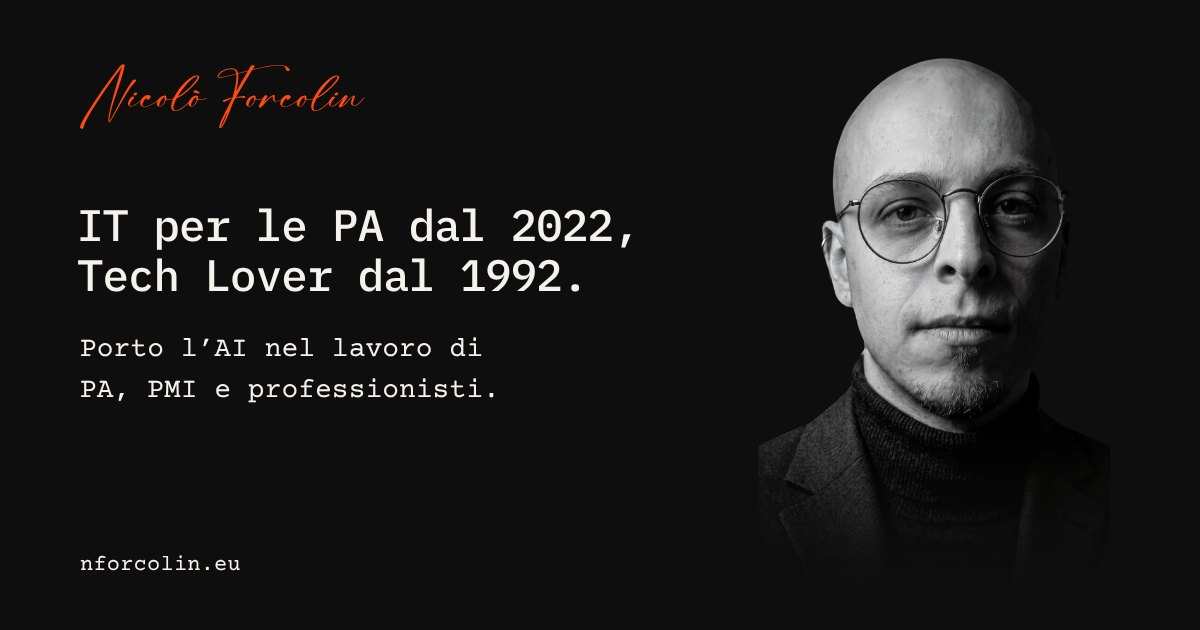
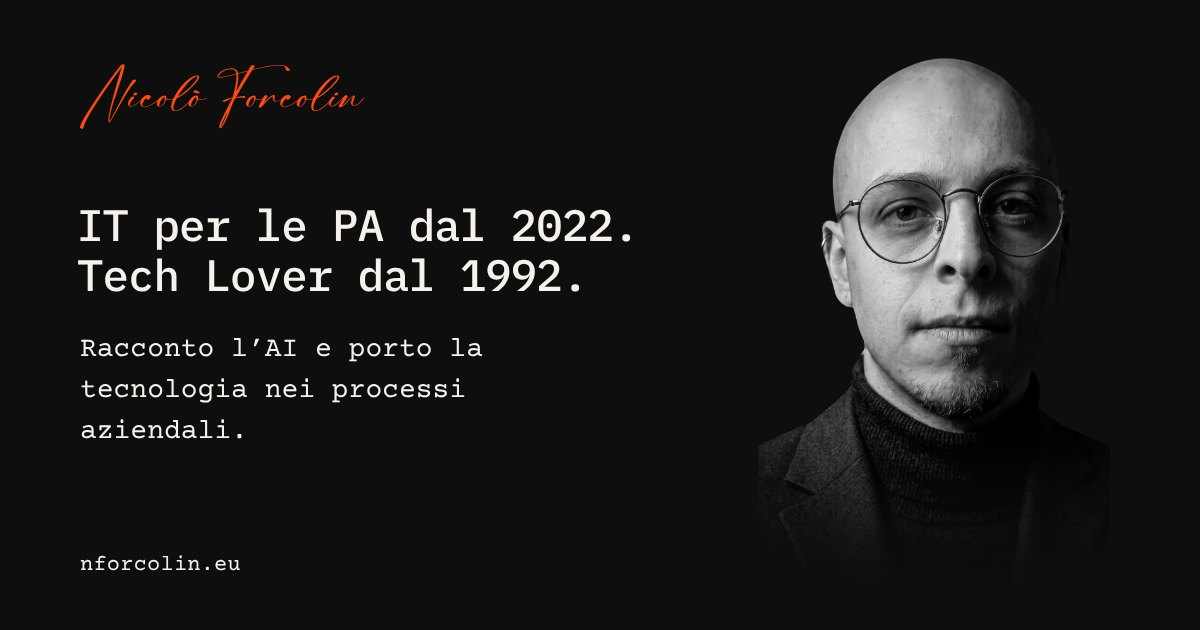
Hero: nuovo testo su cosa faccio e con chi lavoro
Claude-Session: https://claude.ai/code/session_013V1PHrfFfWZxJKR6k5JqCP

diff --git a/script.js b/script.js
@@ -10,7 +10,7 @@
       home_local_res_v:"su circa 100 domande di prova.",
       home_career_more:"Più di 35 colleghi affiancati su loro richiesta. Membro del team del CEO di DABO per “Sprint Forward in Golden Boots” in Cina.",
       home_all_projects:"Tutti i progetti",
-      home_audience_desc:"Racconto l’AI, integro tecnologie e miglioro processi aziendali. Sempre con un obiettivo: renderli utili nel lavoro di ogni giorno.",
+      home_audience_desc:"Lavoro con PA, enti parastatali, PMI e professionisti. Sviluppo soluzioni che funzionano anche fuori dalle presentazioni PowerPoint.",
       home_career_title:"Il mio percorso",
       home_career_link:"Leggi il percorso",
       local_how_privacy:"Le richieste vengono elaborate in locale, senza inviare dati all’esterno.",
@@ -139,7 +139,8 @@
       enablement_title:"Condividere l’esperienza sul campo",
       enablement_desc:"Ho partecipato come relatore a incontri interni sull’AI. Dal 2025 sono anche Social Ambassador di InfoCamere: promuovo la cultura digitale e condivido l’esperienza maturata nel lavoro.",
       hero_intro:[
-        [{t:"IT per le PA dal "},{t:"2022",b:true},{t:", Tech Lover dal "},{t:"1992",b:true},{t:"."}]
+        [{t:"IT per le PA dal "},{t:"2022",b:true},{t:". Tech Lover dal "},{t:"1992",b:true},{t:"."}],
+        [{t:"Racconto l’AI e porto la tecnologia nei processi aziendali. Quelli veri, fatti di persone e problemi quotidiani."}]
       ],
       stats_label:"In numeri",
       stat1_v:"35+",
@@ -161,7 +162,7 @@
       faq3_a:"Da un problema che vi fa perdere tempo ogni settimana. Il RAG aziendale è nato così: oggi un problema si gestisce in meno di 15 minuti invece di circa un’ora, e l’analisi dopo un problema richiede meno di 2 ore invece di una giornata.",
       skip_to_content:"Vai al contenuto",
       page_title:"Nicolò Forcolin | AI nel lavoro quotidiano",
-      page_description:"IT per le PA dal 2022, Tech Lover dal 1992. Racconto l’AI, integro tecnologie e miglioro processi aziendali. Sempre con un obiettivo: renderli utili nel lavoro di ogni giorno.",
+      page_description:"IT per le PA dal 2022. Tech Lover dal 1992. Racconto l’AI e porto la tecnologia nei processi aziendali. Quelli veri, fatti di persone e problemi quotidiani.",
       rag_step1_kicker:"Fonti iniziali",
       rag_step1_title:"Documentazione e storico delle criticità",
       rag_step1_desc:"Due raccolte di conoscenza consultate separatamente.",
@@ -343,7 +344,7 @@
       home_local_res_v:"out of about 100 test questions.",
       home_career_more:"More than 35 colleagues supported at their request. Member of the DABO CEO’s team for “Sprint Forward in Golden Boots” in China.",
       home_all_projects:"All projects",
-      home_audience_desc:"I talk about AI, integrate technologies and improve business processes. Always with one goal: making them useful in everyday work.",
+      home_audience_desc:"I work with public administrations, public-sector bodies, SMEs and professionals. I build solutions that work outside PowerPoint presentations too.",
       home_career_title:"My experience",
       home_career_link:"Read about my experience",
       local_how_privacy:"Requests are processed locally, without sending data outside.",
@@ -472,7 +473,8 @@
       enablement_title:"Sharing practical experience",
       enablement_desc:"I have spoken at internal AI sessions. Since 2025, I have also been an InfoCamere Social Ambassador, promoting digital culture and sharing experience from my work.",
       hero_intro:[
-        [{t:"Public-sector IT since "},{t:"2022",b:true},{t:", tech lover since "},{t:"1992",b:true},{t:"."}]
+        [{t:"Public-sector IT since "},{t:"2022",b:true},{t:". Tech lover since "},{t:"1992",b:true},{t:"."}],
+        [{t:"I talk about AI and bring technology into business processes. The real ones, made of people and everyday problems."}]
       ],
       stats_label:"In numbers",
       stat1_v:"35+",
@@ -494,7 +496,7 @@
       faq3_a:"With a problem that costs you time every week. The enterprise RAG started that way: an issue now takes under 15 minutes instead of about an hour, and the analysis after an issue takes under 2 hours instead of a full day.",
       skip_to_content:"Skip to content",
       page_title:"Nicolò Forcolin | AI in everyday work",
-      page_description:"Public-sector IT since 2022, tech lover since 1992. I talk about AI, integrate technologies and improve business processes. Always with one goal: making them useful in everyday work.",
+      page_description:"Public-sector IT since 2022. Tech lover since 1992. I talk about AI and bring technology into business processes. The real ones, made of people and everyday problems.",
       rag_step1_kicker:"Initial sources",
       rag_step1_title:"Documentation and incident history",
       rag_step1_desc:"Two separate knowledge collections.",

diff --git a/index.html b/index.html
@@ -8,7 +8,7 @@
 <meta name="supported-color-schemes" content="dark">
 <meta name="darkreader-lock">
 <title>Nicolò Forcolin | AI nel lavoro quotidiano</title>
-<meta name="description" content="IT per le PA dal 2022, Tech Lover dal 1992. Racconto l’AI, integro tecnologie e miglioro processi aziendali. Sempre con un obiettivo: renderli utili nel lavoro di ogni giorno.">
+<meta name="description" content="IT per le PA dal 2022. Tech Lover dal 1992. Racconto l’AI e porto la tecnologia nei processi aziendali. Quelli veri, fatti di persone e problemi quotidiani.">
 <link rel="canonical" href="https://nforcolin.eu/">
 
 <link rel="icon" href="favicon.svg?v=8" type="image/svg+xml">
@@ -22,13 +22,13 @@
 <meta property="og:site_name" content="Nicolò Forcolin">
 <meta property="og:locale" content="it_IT">
 <meta property="og:title" content="Nicolò Forcolin | AI nel lavoro quotidiano">
-<meta property="og:description" content="IT per le PA dal 2022, Tech Lover dal 1992. Racconto l’AI, integro tecnologie e miglioro processi aziendali. Sempre con un obiettivo: renderli utili nel lavoro di ogni giorno.">
+<meta property="og:description" content="IT per le PA dal 2022. Tech Lover dal 1992. Racconto l’AI e porto la tecnologia nei processi aziendali. Quelli veri, fatti di persone e problemi quotidiani.">
 <meta property="og:image" content="https://nforcolin.eu/og-home.jpg">
 <meta property="og:image:width" content="1200">
 <meta property="og:image:height" content="630">
 <meta name="twitter:card" content="summary_large_image">
 <meta name="twitter:title" content="Nicolò Forcolin | AI nel lavoro quotidiano">
-<meta name="twitter:description" content="IT per le PA dal 2022, Tech Lover dal 1992. Racconto l’AI, integro tecnologie e miglioro processi aziendali. Sempre con un obiettivo: renderli utili nel lavoro di ogni giorno.">
+<meta name="twitter:description" content="IT per le PA dal 2022. Tech Lover dal 1992. Racconto l’AI e porto la tecnologia nei processi aziendali. Quelli veri, fatti di persone e problemi quotidiani.">
 <meta name="twitter:image" content="https://nforcolin.eu/og-home.jpg">
 
 <script type="application/ld+json">
@@ -81,8 +81,8 @@
   <div class="hero-inner wrap">
     <div class="hero-overlay">
       <h1 class="visually-hidden" id="hero-name">Nicolò Forcolin</h1>
-      <div class="hero-intro" id="heroIntro"><p>IT per le PA dal <strong>2022</strong>, Tech Lover dal <strong>1992</strong>.</p></div>
-      <p class="hero-audience" data-i18n="home_audience_desc">Racconto l’AI, integro tecnologie e miglioro processi aziendali. Sempre con un obiettivo: renderli utili nel lavoro di ogni giorno.</p>
+      <div class="hero-intro" id="heroIntro"><p>IT per le PA dal <strong>2022</strong>. Tech Lover dal <strong>1992</strong>.</p><p>Racconto l’AI e porto la tecnologia nei processi aziendali. Quelli veri, fatti di persone e problemi quotidiani.</p></div>
+      <p class="hero-audience" data-i18n="home_audience_desc">Lavoro con PA, enti parastatali, PMI e professionisti. Sviluppo soluzioni che funzionano anche fuori dalle presentazioni PowerPoint.</p>
 
     </div>
     <div class="hero-photo-frame">

diff --git a/i18n-zh.js b/i18n-zh.js
@@ -9,7 +9,7 @@ window.NF_I18N.zh = {
   home_local_res_v:"来自约 100 个测试问题。",
   home_career_more:"应同事要求，已辅导 35 位以上同事。作为 DABO CEO 团队成员，参与在中国举办的“Sprint Forward in Golden Boots”。",
   home_all_projects:"所有项目",
-  home_audience_desc:"我讲解 AI，整合技术，改进业务流程。始终只有一个目标：让它们在日常工作中真正有用。",
+  home_audience_desc:"我与公共行政部门、公共机构、中小企业和专业人士合作。我开发的方案，离开 PowerPoint 演示也一样管用。",
   home_career_title:"我的经历",
   home_career_link:"了解我的经历",
   local_how_privacy: "请求在本地处理，不会向外部发送数据。",
@@ -138,7 +138,8 @@ window.NF_I18N.zh = {
   enablement_title: "分享实践经验",
   enablement_desc: "我曾在内部的 AI 分享会上发言。自 2025 年起，我还担任 InfoCamere 社交大使，推广数字文化，分享工作中的经验。",
   hero_intro: [
-    [{ t: "自 " }, { t: "2022", b: true }, { t: " 年起从事公共行政领域的 IT，自 " }, { t: "1992", b: true }, { t: " 年起热爱科技。" }]
+    [{ t: "自 " }, { t: "2022", b: true }, { t: " 年起从事公共行政领域的 IT，自 " }, { t: "1992", b: true }, { t: " 年起热爱科技。" }],
+    [{ t: "我讲解 AI，把技术带进业务流程。真实的流程，由人和日常问题组成。" }]
   ],
   stats_label: "数据一览",
   stat1_v: "35+",
@@ -160,7 +161,7 @@ window.NF_I18N.zh = {
   faq3_a:"从每周都让你们浪费时间的问题开始。企业 RAG 就是这样诞生的：现在处理一个问题不到 15 分钟，过去约需一小时；问题之后的分析不到 2 小时，过去需要一整天。",
   skip_to_content: "跳到正文",
   page_title: "Nicolò Forcolin | 日常工作中的 AI",
-  page_description: "自 2022 年起从事公共行政领域的 IT，自 1992 年起热爱科技。我讲解 AI，整合技术，改进业务流程。始终只有一个目标：让它们在日常工作中真正有用。",
+  page_description: "自 2022 年起从事公共行政领域的 IT，自 1992 年起热爱科技。我讲解 AI，把技术带进业务流程。真实的流程，由人和日常问题组成。",
   rag_step1_kicker: "最初的来源",
   rag_step1_title: "文档与事件历史",
   rag_step1_desc: "两个相互独立的知识库。",

diff --git a/home-editorial.css b/home-editorial.css
@@ -83,7 +83,7 @@ body[data-page="home"] .colophon{padding-bottom:24px}
  .hero-intro p:first-child{font-size:1.5rem;line-height:1.15;margin:0 0 14px}
  :lang(zh-Hans) .hero-intro p:first-child{font-size:1.25rem}
  .hero-intro p:last-child{margin-bottom:0}
- .hero-photo-frame{grid-row:1;align-self:stretch;width:100%;height:clamp(200px,calc(100svh - 360px),560px);min-height:0;max-height:none;margin:0 0 16px;overflow:hidden;position:relative;order:0}
+ .hero-photo-frame{grid-row:1;align-self:stretch;width:100%;height:clamp(180px,calc(100svh - 480px),560px);min-height:0;max-height:none;margin:0 0 16px;overflow:hidden;position:relative;order:0}
  .hero-portrait{position:absolute;top:0;left:0;width:100%;max-width:none;height:100%;max-height:none;object-fit:contain;object-position:center bottom;mask-image:none;-webkit-mask-image:none}
  .home-stats-list{grid-template-columns:1fr;gap:0;padding:10px 0}
  .home-stats-list li{display:flex;align-items:baseline;gap:16px;padding:10px 0}
@@ -141,3 +141,5 @@ body[data-page="home"] .colophon{padding-bottom:24px}
 :lang(en) .hero-intro p:first-child{font-size:1.75rem}
 @media(max-width:1000px){:lang(en) .hero-intro p:first-child{font-size:1.375rem;letter-spacing:-0.045em}}
 @media(max-width:360px){.hero-intro p:first-child{letter-spacing:-0.045em}:lang(en) .hero-intro p:first-child,:lang(zh-Hans) .hero-intro p:first-child{font-size:1.125rem}}
+@media(max-width:400px){:lang(en) .hero-intro p:first-child{font-size:1.25rem}}
+@media(max-width:340px){:lang(en) .hero-intro p:first-child{font-size:1.125rem}}

diff --git a/BRAND.md b/BRAND.md
@@ -129,3 +129,4 @@ Fino al 15 novembre 2026 la home su mobile si apriva con una prima schermata a t
 - Hero stabile tra le lingue (21 novembre 2026): su mobile il ritratto ha un’altezza fissa (tra 200 e 560 px, lo spazio dello schermo meno 360 px per il testo), così non cresce né si sposta quando cambia la lunghezza del testo; la firma nella barra ha interlinea fissa 1,6, così la barra non cambia altezza in cinese. 
 - Hero (21 novembre 2026, testo di Nicolò): sotto il titolo "IT per le PA dal 2022, Tech Lover dal 1992." c’è una sola frase, "Racconto l’AI, integro tecnologie e miglioro processi aziendali. Sempre con un obiettivo: renderli utili nel lavoro di ogni giorno." Sostituisce la riga sul pubblico ("Lavoro con pubbliche amministrazioni…") e la frase "La tecnologia funziona davvero quando smetti di pensarci", tolte.
 - Hero su mobile allineata a sinistra (21 novembre 2026): la frase sotto il titolo va su 4–6 righe sui telefoni, e le regole vietano paragrafi centrati oltre le tre righe.
+- Hero (21 novembre 2026, testo di Nicolò): titolo "IT per le PA dal 2022. Tech Lover dal 1992." (punto al posto della virgola), poi due frasi: "Racconto l’AI e porto la tecnologia nei processi aziendali. Quelli veri, fatti di persone e problemi quotidiani." e "Lavoro con PA, enti parastatali, PMI e professionisti. Sviluppo soluzioni che funzionano anche fuori dalle presentazioni PowerPoint." Sostituiscono "Racconto l’AI, integro tecnologie e miglioro processi aziendali…".
